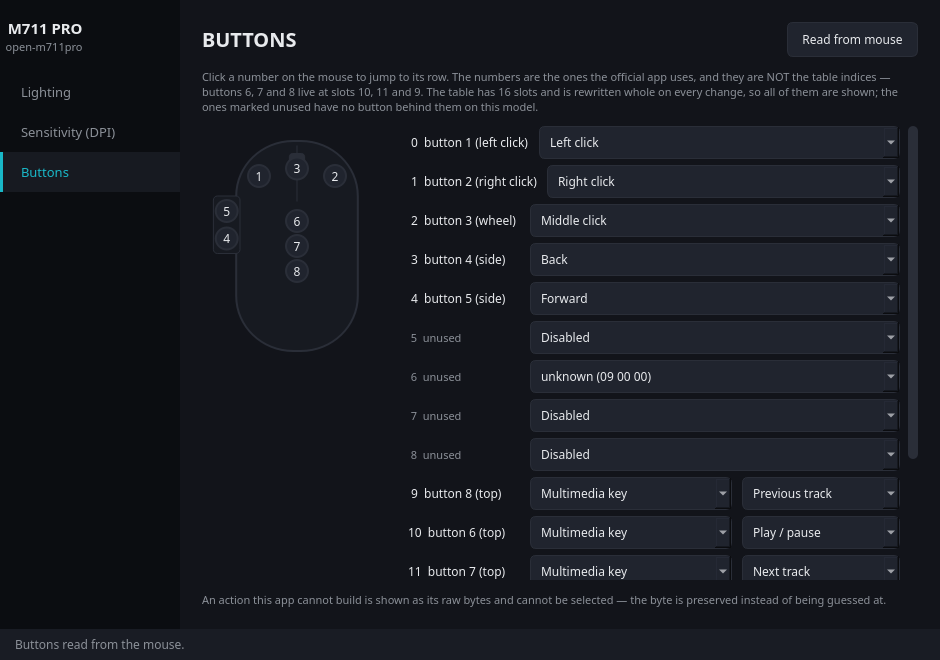
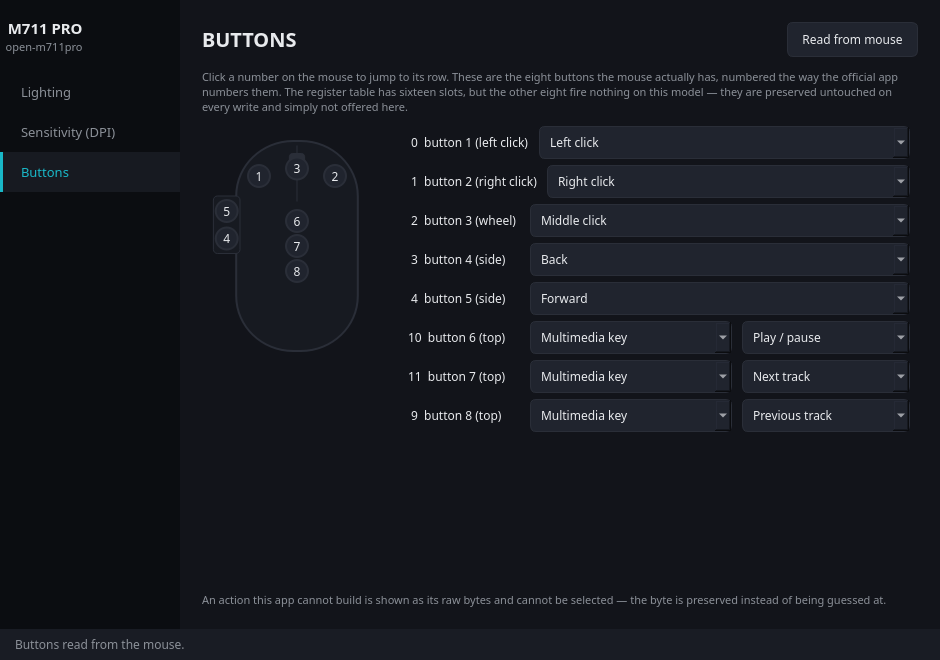
fix(ui): the DPI tab crashed on open, and add smoke tests that catch it
Opening the Sensitivity tab raised AttributeError: 'list' object has no
attribute 'values'. The previous change turned ButtonsPage.rows into a dict, and
the edit that adapted the iteration matched an identical line in DpiPage, whose
rows are still a list. That shipped in v0.1.1.

This is the third time a change touched two classes sharing a line, and the
third time no test noticed — the suite covered the protocol and the device layer
and nothing above them. So tests/test_ui.py now opens every page, asserts that
choosing each effect actually reaches a send function, and checks the buttons
page offers exactly the eight real buttons. Reintroducing this bug on purpose
makes test_every_page_opens fail, which is the point.

They stub the whole device layer and put tripwires on the functions that would
reach /dev/hidraw, and they skip themselves when PySide6 is absent so the
dependency-free CI job still proves the core needs nothing.

The effect test asserts against a mapping written out in the test rather than
one derived from device.sender_for — deriving it from the code under test would
have passed happily while the dispatch was broken, which is exactly how the
original bug survived.

Screenshots re-rendered: the buttons one still showed the sixteen-row version.

diff --git a/tests/test_ui.py b/tests/test_ui.py
@@ -1,0 +1,175 @@
+"""Smoke tests for the Qt interface, with the hardware stubbed out.
+
+These exist because of a specific class of bug that shipped twice: a rename or a
+refactor touched two classes that happened to share a line, and the interface
+broke in a way no protocol test could see. Once it was the effect dispatch
+keyed on stale names, so choosing an effect sent nothing at all; once it was
+`self.rows` becoming a dict in one page while the other still kept a list, which
+crashed the DPI tab the moment it opened.
+
+Nothing here talks to a mouse: the device layer is replaced wholesale, and the
+functions that would reach /dev/hidraw raise if anything calls them.
+
+They skip themselves when PySide6 is absent, so the dependency-free CI run —
+which is what proves the core needs nothing — still passes.
+"""
+import os
+
+os.environ.setdefault("QT_QPA_PLATFORM", "offscreen")
+
+try:
+    from PySide6.QtWidgets import QApplication
+    HAVE_QT = True
+except ImportError:                                  # pragma: no cover
+    HAVE_QT = False
+
+from m711pro.core import device, protocol
+
+_app = None
+
+
+def _qt():
+    """One QApplication for the whole module; Qt allows no more."""
+    global _app
+    if _app is None:
+        _app = QApplication.instance() or QApplication([])
+    return _app
+
+
+BUTTON_TABLE = (
+    [protocol.btn_mouse(protocol.MOUSE_LEFT), protocol.btn_mouse(protocol.MOUSE_RIGHT),
+     protocol.btn_mouse(protocol.MOUSE_MIDDLE), protocol.btn_mouse(protocol.MOUSE_BACK),
+     protocol.btn_mouse(protocol.MOUSE_FORWARD), protocol.BTN_NONE,
+     (0x09, 0x00, 0x00), protocol.BTN_NONE, protocol.BTN_NONE,
+     protocol.BTN_EXTENDED, protocol.BTN_EXTENDED, protocol.BTN_EXTENDED]
+    + [protocol.BTN_NONE] * 4)
+
+
+class _Stub:
+    """Stands in for the whole device layer and records what was sent."""
+
+    def __init__(self):
+        self.sent = []
+
+    def install(self):
+        self._saved = {name: getattr(device, name) for name in (
+            "find_devices", "send_packets", "read_register", "read_buttons",
+            "read_dpi_axes", "read_dpi_bytes", "read_dpi_colors",
+            "read_dpi_effect", "read_polling", "read_led_state",
+            "send_color", "send_breathing", "send_cycle", "send_off",
+            "_send_feature", "_read_from")}
+
+        def tripwire(*_a, **_k):
+            raise AssertionError("a UI test tried to reach the hardware")
+
+        device.find_devices = lambda: [("/dev/null", 0xFA07)]
+        device._send_feature = tripwire
+        device._read_from = tripwire
+        device.send_packets = lambda pkts: self.sent.extend(pkts) or ["2.4G"]
+        device.read_register = lambda addr, length=8, timeout=0.6: None
+        device.read_buttons = lambda: [tuple(a) for a in BUTTON_TABLE]
+        device.read_dpi_axes = lambda: [(0x07, 0x07)] * protocol.DPI_STAGES
+        device.read_dpi_bytes = lambda: [0x07] * protocol.DPI_STAGES
+        device.read_dpi_colors = lambda: [(255, 0, 0)] * protocol.DPI_STAGES
+        device.read_dpi_effect = lambda: (True, (0x01, 0x03))
+        device.read_polling = lambda: (1000, 0x01)
+        device.read_led_state = lambda: {"effect": "Steady", "rgb": [0, 0, 255],
+                                         "speed": 0x96, "brightness": 0xFF}
+        for name in ("send_color", "send_breathing", "send_cycle"):
+            setattr(device, name, self._recorder(name))
+        device.send_off = self._recorder("send_off")
+
+    def _recorder(self, name):
+        def call(*args, **kwargs):
+            self.sent.append((name, args, kwargs))
+            return ["2.4G"]
+        call.__name__ = name          # so device.sender_for() still reads right
+        return call
+
+    def restore(self):
+        for name, original in self._saved.items():
+            setattr(device, name, original)
+
+
+def _window():
+    from m711pro.ui import qt
+    _qt()
+    window = qt.MainWindow()
+    window.show()
+    _qt().processEvents()
+    return qt, window
+
+
+def test_every_page_opens():
+    """The DPI tab once crashed on open; nothing in the suite noticed."""
+    if not HAVE_QT:
+        return
+    stub = _Stub(); stub.install()
+    try:
+        _, window = _window()
+        for index in range(len(window.nav_btns)):
+            window._go(index)
+            _qt().processEvents()
+    finally:
+        stub.restore()
+
+
+def test_choosing_an_effect_actually_sends_something():
+    """The dispatch was once keyed on stale names and silently sent nothing."""
+    if not HAVE_QT:
+        return
+    stub = _Stub(); stub.install()
+    try:
+        _, window = _window()
+        for effect in device.COLOR_EFFECTS:
+            # Qt emits nothing when the text does not change, and the window
+            # opens on one of these — so step away first, then back.
+            window.lighting.effect.setCurrentText("Off")
+            _qt().processEvents()
+            stub.sent.clear()
+            window.lighting.effect.setCurrentText(effect)
+            _qt().processEvents()
+            assert stub.sent, f"choosing {effect!r} sent nothing"
+            # Checked against a map written out here rather than derived from
+            # device.sender_for — deriving it from the code under test would
+            # have passed happily while the dispatch was broken.
+            expected = {"Steady": "send_color",
+                        "Breathing": "send_breathing",
+                        "Cycle": "send_cycle"}[effect]
+            sent_names = [entry[0] for entry in stub.sent if isinstance(entry, tuple)]
+            assert expected in sent_names, f"{effect!r} called {sent_names}"
+    finally:
+        stub.restore()
+
+
+def test_the_buttons_page_offers_only_real_buttons():
+    if not HAVE_QT:
+        return
+    stub = _Stub(); stub.install()
+    try:
+        qt, window = _window()
+        window._go(2)
+        _qt().processEvents()
+        shown = set(window.buttons.rows)
+        assert shown == {index for _, (_, index, _r) in
+                         qt.MouseDiagram.BUTTONS.items()}
+        assert len(shown) == 8
+    finally:
+        stub.restore()
+
+
+def test_an_uninterpretable_action_is_shown_but_never_selectable():
+    """Index 6 holds 09 00 00 from the factory and must survive untouched."""
+    if not HAVE_QT:
+        return
+    stub = _Stub(); stub.install()
+    try:
+        qt, window = _window()
+        window._go(2)
+        _qt().processEvents()
+        # index 6 is not one of the eight, so it is not even offered — the
+        # guarantee is that it stays in the table, which send_button enforces.
+        assert 6 not in window.buttons.rows
+        assert window.buttons._table[6] == (0x09, 0x00, 0x00)
+    finally:
+        stub.restore()

diff --git a/m711pro/ui/qt.py b/m711pro/ui/qt.py
@@ -664,7 +664,7 @@ class DpiPage(QWidget):
             self.status.emit("DPI read from the mouse.", False)
 
     def _enable(self, flag):
-        for row in self.rows.values():
+        for row in self.rows:            # DpiPage keeps a list, one per stage
             row.setEnabled(flag)
         self.xy.setEnabled(flag)
         self.single.setEnabled(flag)
